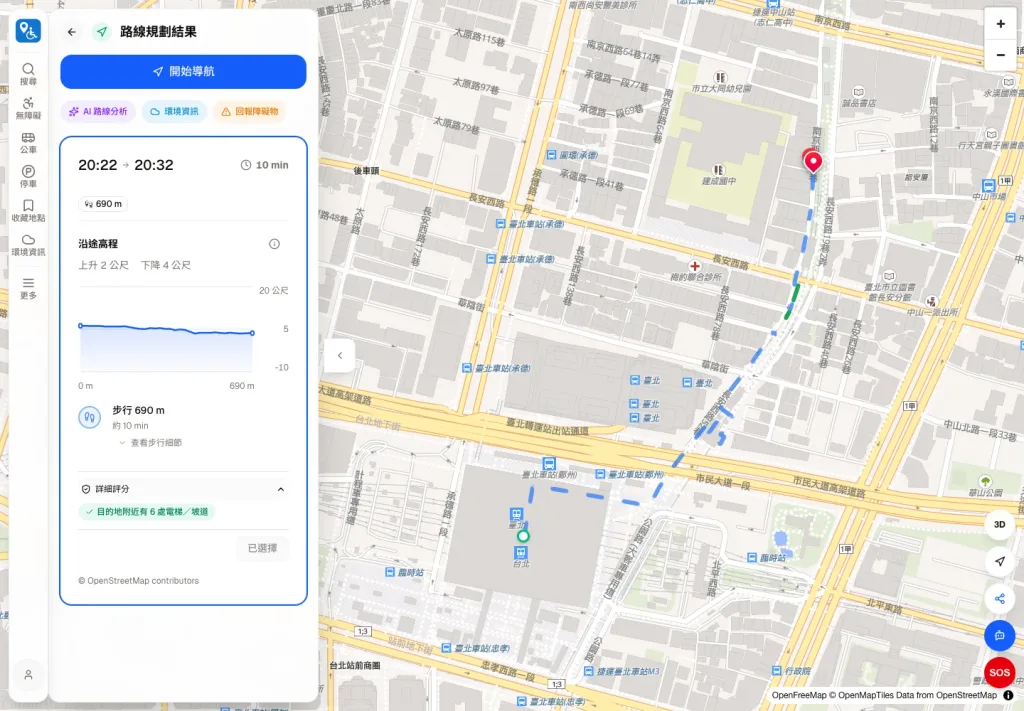
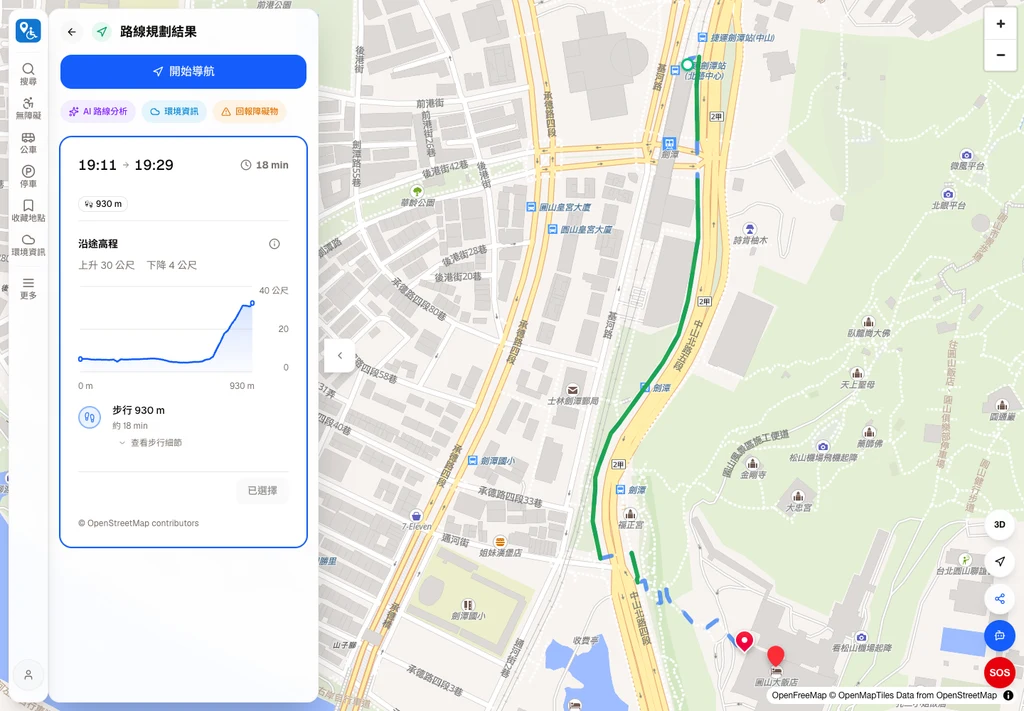
feat(marketing): update product showcase screenshots and asset docs

diff --git a/public/landing/README.md b/public/landing/README.md
@@ -1,19 +1,26 @@
 # Landing-page product captures
 
-Product WebP assets in this directory are real captures of Accessible Smart Map made on 2026-11-05. Desktop captures use the web app (https://map.yuzen.dev/zh-TW/); phone captures use the native iOS App in the user’s iPhone 18 Pro simulator, running iOS 27.0. The supplied App Store brand references were not copied or embedded. No AI-generated imagery is used.
+All eight product screenshots currently used on the homepage were captured on 2026-11-08. Five desktop captures use the current Accessible Smart Map web application; three native captures use the iOS app in the iPhone 18 Pro simulator running iOS 27.0. The local frontend at `http://127.0.0.1:3102/map/` used the existing development proxy to the real backend on port 8000. No mock responses, generated imagery, substituted interface content, or fabricated routes were used. Desktop captures used an isolated anonymous browser session with light theme and public destinations. The native app used the existing installed development build with current project JavaScript served by local Metro and a temporary `EXPO_PUBLIC_END_POINT=http://127.0.0.1:8000` override. Native capture used public endpoints; no account identity, saved places or search-history lists appear in the published image, and no device location was used as a route endpoint.
 
-- `route-desktop.webp`: general walking result, Taipei Main Station to Zhongshan Station, 1440 × 1000.
-- `route-native.webp`: native App, general walking route from 台北車站捷運站 to 中山站, with the map and mode controls visible, 1206 × 2622.
-- `terrain-desktop.webp`: the same walking result with the details expanded, including the actual elevation graph and mapped sidewalk segments, 1440 × 1000.
-- `wheelchair-desktop.webp`: wheelchair planning settings, 1440 × 1000. This is the settings screen, not evidence of a successful wheelchair route.
-- `navigation-native.webp`: the same native App route in navigation preview, 1206 × 2622. The screen explicitly shows 路線預覽; it is not a field test. This is a general-mode route and includes stairs, not a wheelchair-route demonstration.
-- `transit-desktop.webp`: actual transit query from Taipei Main Station to Taipei 101, 1440 × 1000.
-- `assistant-desktop.webp`: actual AI response to a question about accessibility facilities between Taipei Main Station and Taipei 101, 1440 × 1000.
+| Asset | Actual captured state |
+| --- | --- |
+| `route-desktop.webp` | General walking, 捷運中山站(志仁高中) to 寧夏夜市. Expanded walking directions, distance, estimated time and elevation are visible. |
+| `wheelchair-desktop.webp` | Wheelchair-mode query between the same endpoints. The walking candidate is selected alongside the 306區 bus alternative. Actual route ratings and the insufficient-accessibility-data notice remain visible. This is a comparison of returned candidates, not a claim of certified passability. |
+| `terrain-desktop.webp` | General walking, 捷運劍潭站 一號出口 to 圓山大飯店. The visible elevation curve shows 30 m ascent and 4 m descent; matched sidewalk segments are green. |
+| `transit-desktop.webp` | 捷運劍潭站 一號出口 to 台北101. 淡水信義線 toward 象山, boarding 劍潭 and alighting 台北101/世貿, with walking access at both ends. |
+| `assistant-desktop.webp` | Actual completed AI reply to「這趟到台北101的路線，要在哪一站下車？」with the same transit route visible. An earlier facility-search request failed and is not represented as a successful response. |
+| `navigation-live-native.webp` | Native app in actual live-navigation mode with voice guidance enabled: 台北車站捷運站 → 中山站, general walking. Simulator GPS was set to the real public origin (25.0467151, 121.5156511), which let the existing navigation engine take over automatically. Preview controls disappeared and the HUD showed a 40 m left turn, location marker, remaining distance/arrival estimate and enabled speaker control. This is simulated GPS, not a field test; no navigation state or UI text was patched. |
+| `bus-arrivals-native.webp` | Native 臺北車站(忠孝) stop board showing actual backend arrival countdowns and incoming-bus statuses. The zero-accessible-bus state is retained exactly as returned. |
+| `bus-route-native.webp` | Native 265區 route view with actual stop ETAs, route direction and the arrival-reminder control. No reminder was enabled and no bus/ETA data was fabricated. |
 
-The captures use fixed public destinations. Browser captures used an anonymous isolated session. Native captures used the already-installed App; no account identity, saved places, or search history is visible in the published images. No device location was used as a route endpoint. Map attribution is retained. Compression: Sharp WebP, quality 88 (desktop) / 90 (mobile), original dimensions retained; native variants at 360 and 720 pixels wide. LandingImage uses local responsive srcset variants to serve appropriately sized captures. The small brand-mark.webp is derived from the existing app icon, not a capture.
+Desktop screenshots are 1440 × 1000. The native simulator capture is 1206 × 2622, captured at the original device resolution. Raw PNG evidence is in `output/homepage-redesign/recapture/`. The Next.js developer overlay was hidden during capture; product UI and data were left intact. `walking-draft.png`, `wheelchair-settings.png` and `wheelchair-settings-ready.png` are unpublished drafts. `navigation-mobile.png` is the superseded responsive-web capture; `navigation-native.png` is also superseded preview-mode evidence. Current native sources are `navigation-live-native.png`, `bus-arrivals-native.png` and `bus-route-native.png`.
+
+Published images are converted using Sharp at WebP quality 88 (desktop) / 90 (mobile), with no cropping or compositing. Desktop responsive variants are 480, 768 and 1024 px wide; mobile variants are 360 and 720 px wide. Desktop map attribution remains inside the screenshots. Native navigation overlays cover the map's attribution in the actual app, so the homepage includes linked map credits beside that image. The small `brand-mark.webp` derives from the existing app icon.
+
+Legacy `route-native.webp` and superseded `navigation-mobile.webp` / `navigation-native.webp` files and their variants remain in the working tree but are not referenced by the current homepage. The new native screenshot is displayed at its original aspect ratio, preserving the status bar and complete app interface.
 
 Screenshots are historical UI demonstrations. Times, service conditions, elevations and route results are not current service guarantees. Green segments represent matched sidewalk data, not verified passability or accessibility certification. Elevation is modeled, not a field survey.
 
-The Hero ASCII mark is sampled from the white symbol in the existing public/logo.png and stored as text in src/components/landing/brand-ascii.ts. It is not generated imagery. Landing-page accents use the same primary blue as src/app/globals.css; surfaces are warm neutrals.
+The homepage uses the map's theme variables in `src/app/theme.css`, Geist / Noto Sans TC fonts and theme provider. GSAP handles reveals, scroll emphasis, route-line motion, reading progress and desktop card stacking; Motion handles mode and feature transitions and the mobile menu. Per the requested homepage behavior, animations remain enabled independently of the system reduced-motion setting; the map application's behavior is unchanged.
 
-Device presentation uses the official Magic UI Safari and Iphone components (MIT). Their original SVG geometry is retained; utility classes are translated to scoped marketing CSS, SVG IDs are unique per instance, and media uses accessible alt text and responsive local images. See src/components/landing/magicui/LICENSE.md. Safari preserves complete desktop captures using contain; iPhone displays native screenshots.
+The feature overview now explicitly covers voice turn-by-turn guidance, live bus arrivals/filtering/reminders, text/voice AI assistance, nearby accessibility facilities, parking, weather/air quality, mapped indoor venues, hazard reports and SOS. Simulator location was cleared after capture. Native application code was not changed for capture.
